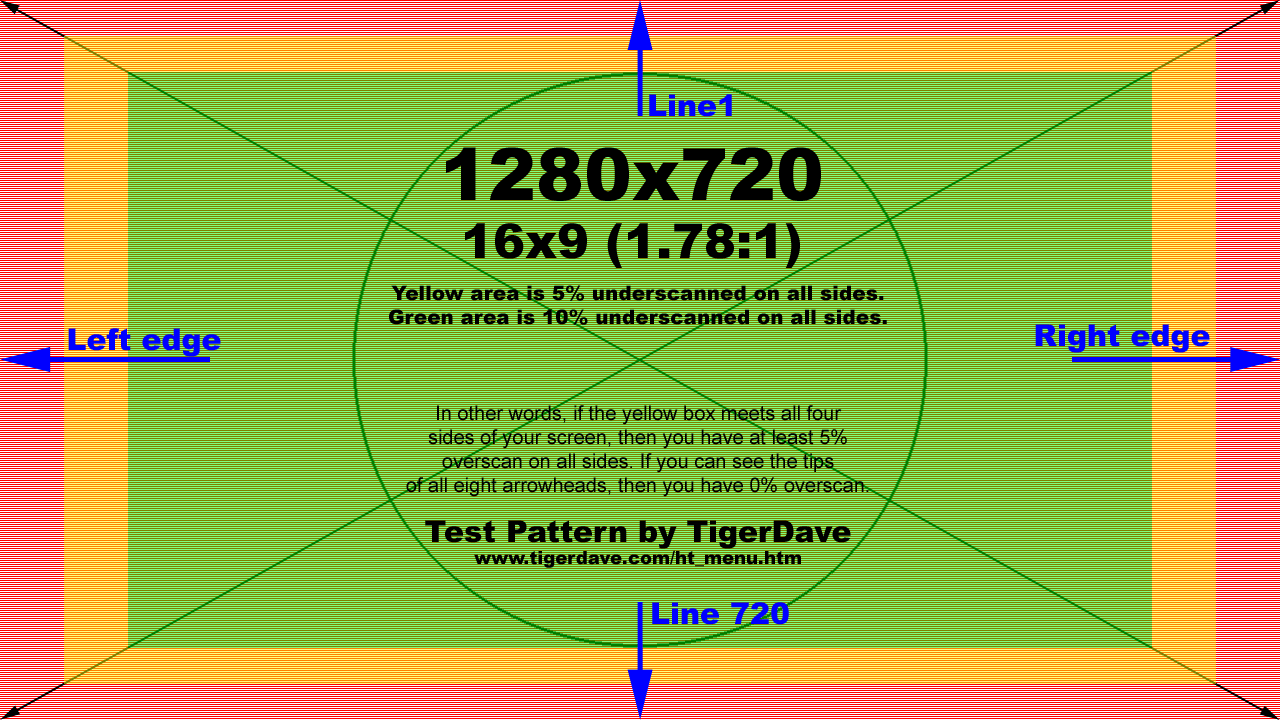
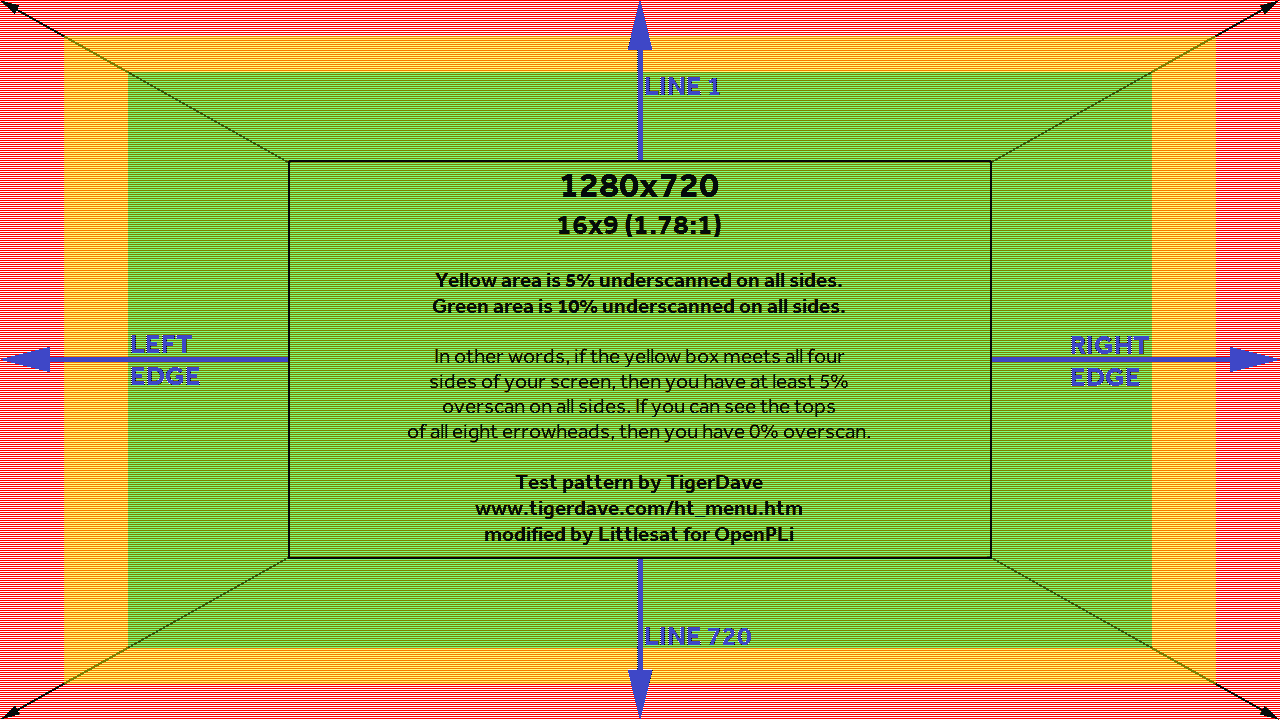
Finetune overscan wizard for 1280x720 skins

diff --git a/lib/python/Plugins/SystemPlugins/OSDPositionSetup/overscanwizard.py b/lib/python/Plugins/SystemPlugins/OSDPositionSetup/overscanwizard.py
@@ -19,10 +19,10 @@ class OverscanWizard(Screen, ConfigListScreen):
 		else:
 			self.skin = """<screen position="fill"  flags="wfNoBorder">
 				<ePixmap pixmap="overscan1280x720.png" position="0,0" size="1280,720" zPosition="3" alphatest="on"/>
-				<eLabel position="223,120" size="810,475" zPosition="3"/>
-				<widget name="title" position="228,125" size="800,40" font="Regular;30" foregroundColor="blue" zPosition="4"/>
-				<widget name="introduction" position="228,165" size="800,623" halign="center" valign="center" font="Regular;20" zPosition="4"/>
-				<widget name="config" position="228,590" size="800,120" font="Regular;20" itemHeight="30" zPosition="4"/>
+				<eLabel position="235,131" size="810,457" zPosition="3"/>
+				<widget name="title" position="240,135" size="800,40" font="Regular;30" foregroundColor="blue" zPosition="4"/>
+				<widget name="introduction" position="240,175" size="800,623" halign="center" valign="center" font="Regular;18" zPosition="4"/>
+				<widget name="config" position="240,590" size="800,120" font="Regular;20" itemHeight="30" zPosition="4"/>
 			</screen>"""
 
 		Screen.__init__(self, session)
@@ -65,9 +65,9 @@ class OverscanWizard(Screen, ConfigListScreen):
 			self["introduction"].instance.resize(eSize(1234, 623 - lenlist))
 		else:
 			lenlist = len(self.list)*30
-			self["config"].instance.move(ePoint(228, 590 - lenlist))
+			self["config"].instance.move(ePoint(240, 580 - lenlist))
 			self["config"].instance.resize(eSize(800, lenlist))
-			self["introduction"].instance.resize(eSize(800, 415 - lenlist))
+			self["introduction"].instance.resize(eSize(800, 405 - lenlist))
 
 	def setScreen(self):
 		self.list = []
